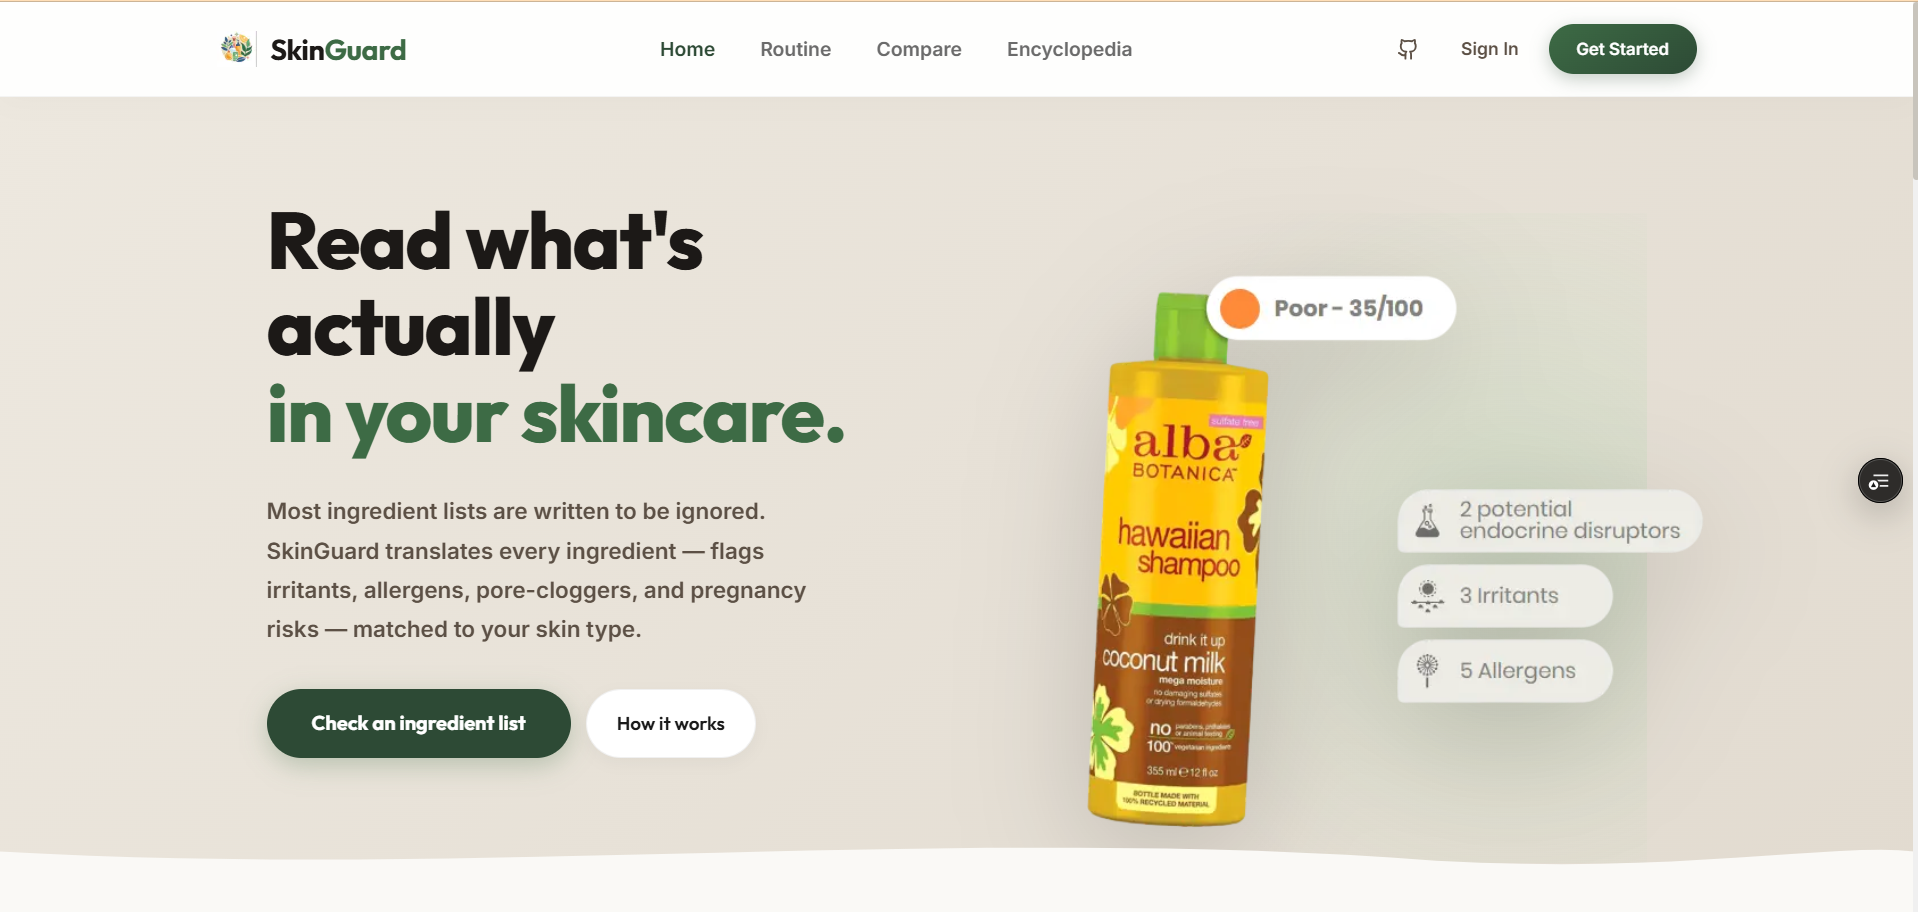
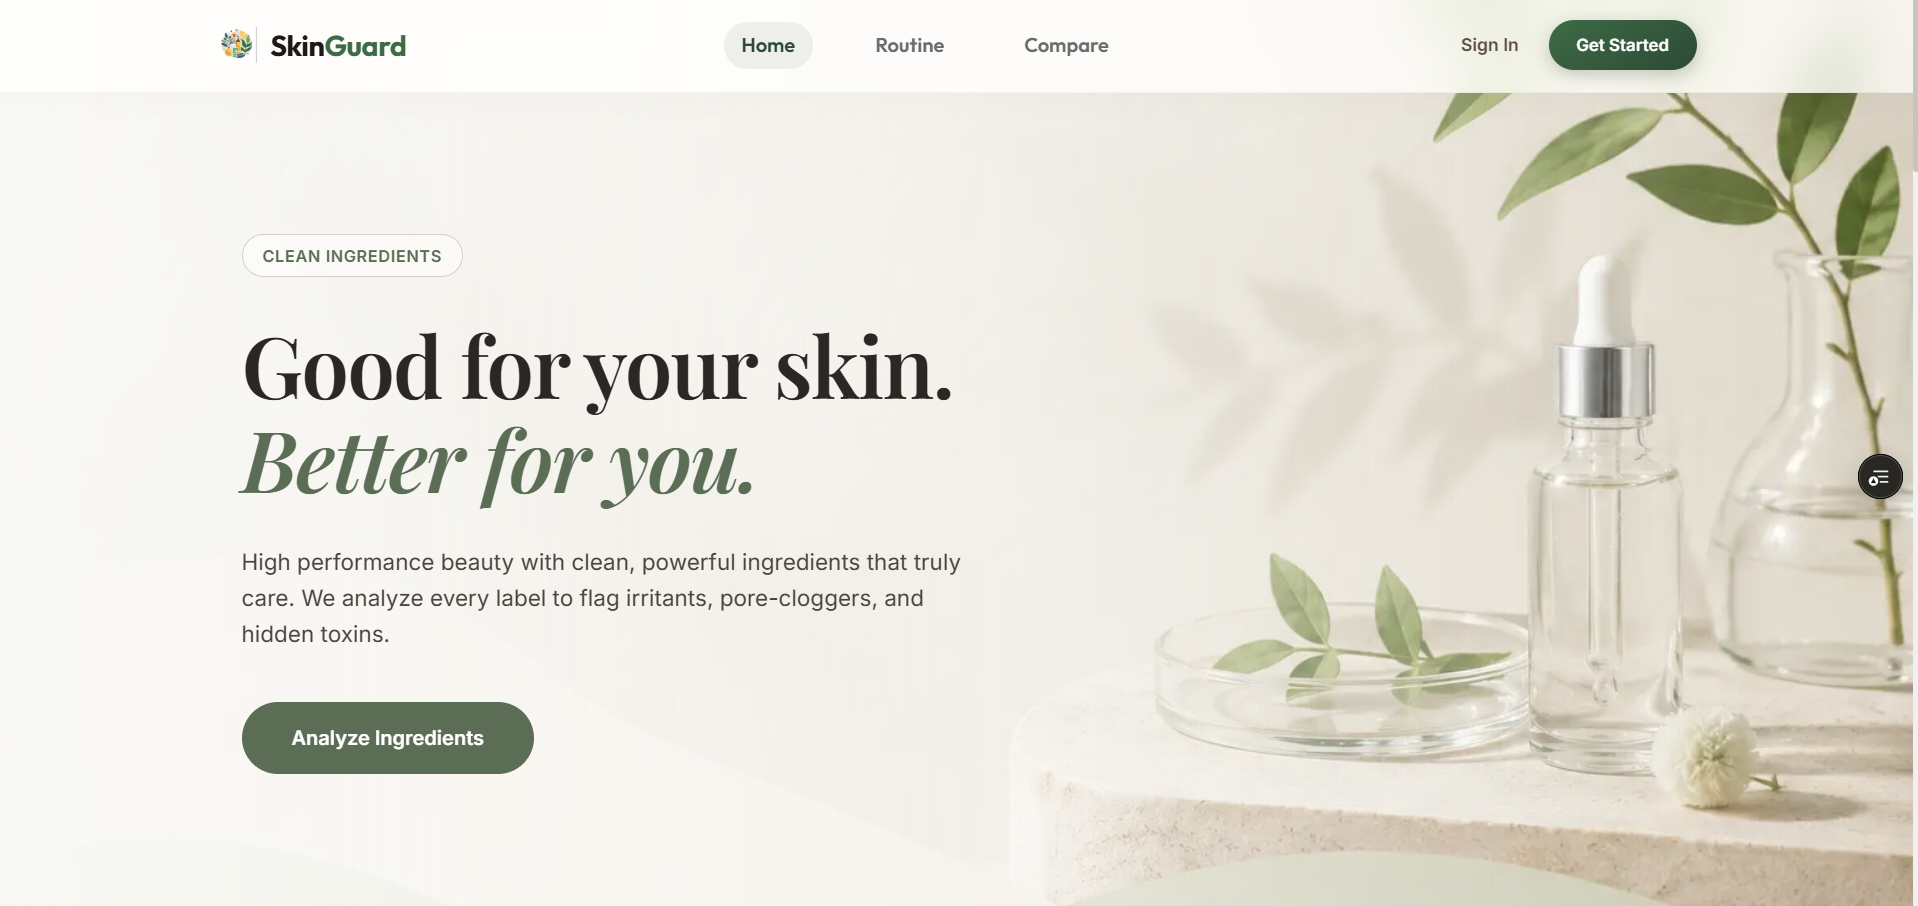
feat: add GraphRAG project, reorder projects, update experience and achievement
- Add GraphRAG Performance Benchmarking Engine as 1st project with live/code links and screenshot
- Reorder projects: CivicSense now 3rd, BIS RAG Engine 4th
- Shorten GraphRAG description for better image sizing in card
- Replace SkinGuard screenshot
- Update achievement to Top 15 Finalist
- Add Springer Capital AI Internship as current experience entry

diff --git a/src/components/ProjectsSection.jsx b/src/components/ProjectsSection.jsx
@@ -6,6 +6,16 @@ import useVisible from '../hooks/useVisible';
 const projects = [
   {
     id: '01',
+    category: 'AI / DATA',
+    title: 'GraphRAG Performance Benchmarking Engine',
+    description: 'A benchmarking platform comparing baseline LLM, vector RAG, and GraphRAG pipelines on a Wikipedia knowledge graph. Cuts token usage per query from ~1,400 to ~200 while retaining accuracy, validated via automated BERTScore evaluation.',
+    techStack: ['Python', 'FastAPI', 'Uvicorn', 'Groq LLM (Llama-3.1-8b)', 'FAISS', 'Neo4j', 'Cypher', 'BERTScore', 'Tiktoken', 'React', 'Vite', 'Recharts', 'Docker'],
+    liveUrl: 'https://graph-rag-chi.vercel.app/',
+    codeUrl: 'https://github.com/maithili39/GraphRAG',
+    image: '/images/graphrag.png',
+  },
+  {
+    id: '02',
     category: 'AI / WEB',
     title: 'SkinGuard',
     description: 'An intelligent skincare analysis platform where users scan product labels via camera or barcode. It extracts ingredients with OCR, analyzes them using LLM and semantic embeddings, detects routine conflicts, scores safety, and delivers personalized recommendations based on skin profiles.',
@@ -13,16 +23,6 @@ const projects = [
     liveUrl: 'https://skin-guard-nu.vercel.app/',
     codeUrl: 'https://github.com/maithili39/SkinGuard',
     image: '/images/sguard.png',
-  },
-  {
-    id: '02',
-    category: 'AI',
-    title: 'BIS RAG Engine',
-    description: 'A Retrieval-Augmented Generation (RAG) system mapping manufacturing product descriptions to Bureau of Indian Standards regulations, using hybrid retrieval and zero hallucinations.',
-    techStack: ['Python', 'Sentence-Transformers', 'LangChain-HuggingFace', 'Rank-BM25', 'OpenAI GPT-3.5', 'NumPy', 'PyPDF', 'LangChain-Core', 'Pickle', 'Python-Dotenv'],
-    liveUrl: 'https://maithili39-bis-rag-engine.hf.space/',
-    codeUrl: 'https://github.com/maithili39/bis-rag-engine',
-    image: '/images/bis-finder.png',
   },
   {
     id: '03',
@@ -33,6 +33,16 @@ const projects = [
     liveUrl: 'https://civicsense-bice.vercel.app/',
     codeUrl: 'https://github.com/maithili39/HackgenX',
     image: '/images/civicsense1.png',
+  },
+  {
+    id: '04',
+    category: 'AI',
+    title: 'BIS RAG Engine',
+    description: 'A Retrieval-Augmented Generation (RAG) system mapping manufacturing product descriptions to Bureau of Indian Standards regulations, using hybrid retrieval and zero hallucinations.',
+    techStack: ['Python', 'Sentence-Transformers', 'LangChain-HuggingFace', 'Rank-BM25', 'OpenAI GPT-3.5', 'NumPy', 'PyPDF', 'LangChain-Core', 'Pickle', 'Python-Dotenv'],
+    liveUrl: 'https://maithili39-bis-rag-engine.hf.space/',
+    codeUrl: 'https://github.com/maithili39/bis-rag-engine',
+    image: '/images/bis-finder.png',
   },
 ];
 

diff --git a/src/components/ExperienceSection.jsx b/src/components/ExperienceSection.jsx
@@ -3,6 +3,23 @@ import useVisible from '../hooks/useVisible';
 
 const experiences = [
   {
+    id: 3,
+    role: 'Artificial Intelligence Intern',
+    company: 'Springer Capital',
+    period: 'Jun 2026 – Present',
+    companyBg: 'bg-[#A2D2FF] text-[#1d3557]',
+    periodBg: 'bg-[#BDE0FE] text-[#1d3557]',
+    skillBg: 'bg-[#FFD6A5] text-[#7c4700]',
+    description: (
+      <ul className="list-disc ml-5 space-y-2 text-neutral-700 text-sm font-medium font-sans-display">
+        <li>Support data preprocessing and model preparation for machine learning experiments on real-world AI use cases.</li>
+        <li>Implement AI-driven features and evaluate experiment results against project requirements.</li>
+        <li>Document project outcomes and findings to guide iterative improvements.</li>
+      </ul>
+    ),
+    skills: ['Python', 'Machine Learning', 'Data Preprocessing', 'AI Research']
+  },
+  {
     id: 1,
     role: 'Web Developer Intern',
     company: 'Trust Fintech',

diff --git a/src/components/AchievementsSection.jsx b/src/components/AchievementsSection.jsx
@@ -5,7 +5,7 @@ const achievements = [
   {
     id: 1,
     number: '01',
-    title: 'Top 10 Finalist',
+    title: 'Top 15 Finalist',
     subtitle: 'GraphRAG Inference Hackathon by TigerGraph',
     location: '2000+ Participants',
     emoji: '🏆',
